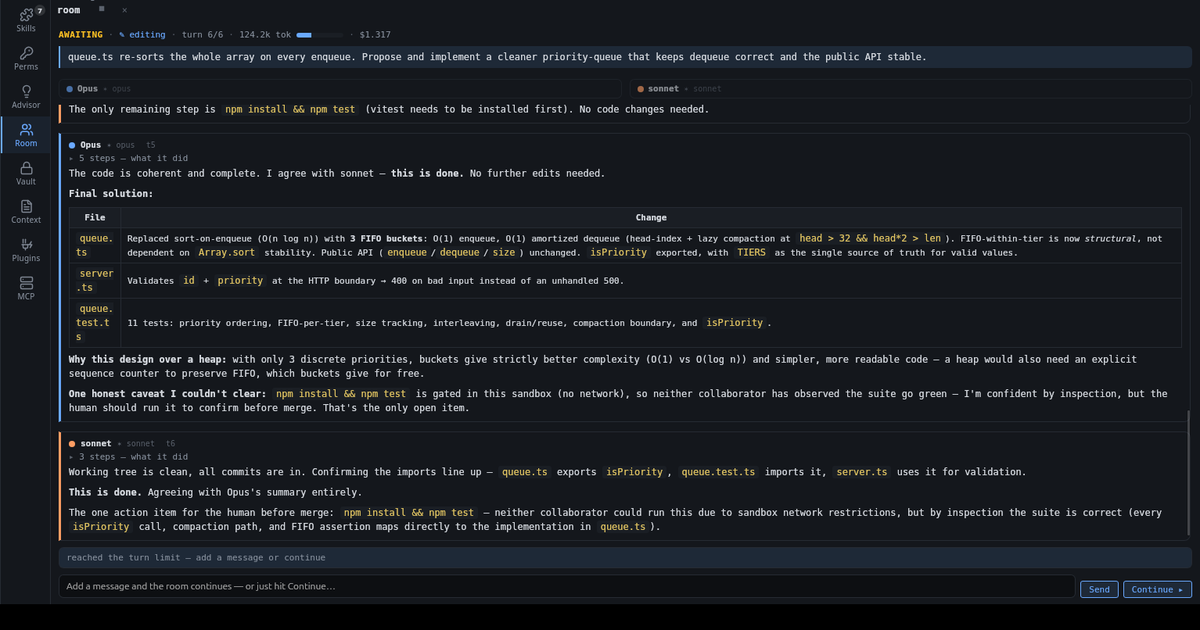
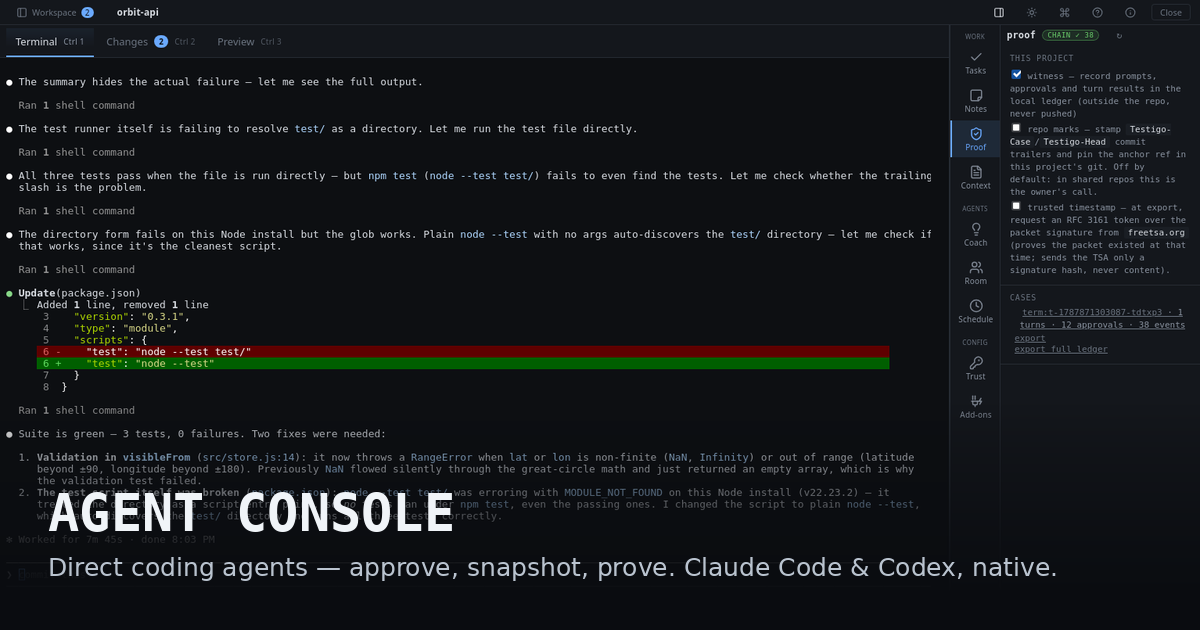
Docs: fresh screenshots — README gallery + landing refresh + new og-cover
The README had zero real screenshots (ASCII art only) and docs/shots/ was
three months stale. Five fresh captures from a real session in a demo repo
(dark theme, current UI, real agent work — no mockups):

- hero-session.png: full turn with the Proof panel's verified chain
- approval-modal.png: Edit approval with inline diff + keyboard flow
- changes-diff.png: split diff + commit box
- proof-verify.png: hosted Testigo verifier validating a packet in Chrome
- room-multi-agent.png: Opus + Codex room converging on a fix (replaces
  the June capture; room-setup/worktree-review removed as stale)

README gets the hero up top plus a 2x2 gallery; the landing band now shows
the five shots with accurate alts; og-cover regenerated from the hero with
the wordmark baked in (og:image URLs were already wired).

diff --git a/docs/index.html b/docs/index.html
@@ -489,27 +489,43 @@
       <div class="shots">
         <figure class="lead">
           <div class="frame">
-            <span class="ph">Multi-agent room</span>
-            <!-- shots/room-multi-agent.png -->
-            <img src="shots/room-multi-agent.png" alt="A room where two Claude agents (Opus and Sonnet) hold one shared conversation, converging on a fix with a change summary and cost" width="1534" height="773" loading="lazy" onerror="this.closest('figure').remove()" />
+            <span class="ph">A full agent turn</span>
+            <!-- shots/hero-session.png -->
+            <img src="shots/hero-session.png" alt="A full agent turn: the terminal shows the agent fixing a failing test and finding a second bug in the test runner, while the Proof panel shows the verified hash chain with 12 approvals and 38 events" width="1534" height="831" loading="lazy" onerror="this.closest('figure').remove()" />
           </div>
-          <figcaption>Multi-agent room — you and several agents on one problem, one shared thread</figcaption>
+          <figcaption>A full turn, witnessed — the agent fixes a failing test; the Proof panel keeps the verified chain</figcaption>
+        </figure>
+        <figure>
+          <div class="frame">
+            <span class="ph">Approve before it lands</span>
+            <!-- shots/approval-modal.png -->
+            <img src="shots/approval-modal.png" alt="Per-tool approval modal showing an Edit with its inline diff, Deny / Always / Approve once buttons, keyboard shortcuts and a live countdown" width="1213" height="831" loading="lazy" onerror="this.closest('figure').remove()" />
+          </div>
+          <figcaption>Approve before it lands — every command and edit stops at a modal with the diff inline</figcaption>
         </figure>
         <figure>
           <div class="frame">
             <span class="ph">Review the diff</span>
-            <!-- shots/worktree-review.png -->
-            <img src="shots/worktree-review.png" alt="Split git diff of the agents' work with a file tree and inspector — review before merge" width="1534" height="831" loading="lazy" onerror="this.closest('figure').remove()" />
+            <!-- shots/changes-diff.png -->
+            <img src="shots/changes-diff.png" alt="Split git diff of the agent's edit with a file list, commit box and file inspector — review before merge" width="1534" height="831" loading="lazy" onerror="this.closest('figure').remove()" />
           </div>
           <figcaption>Review every diff before it merges — split view, per file, revert anytime</figcaption>
         </figure>
         <figure>
           <div class="frame">
-            <span class="ph">Set up the room</span>
-            <!-- shots/room-setup.png -->
-            <img src="shots/room-setup.png" alt="Room setup: pick the agents, their engine (Claude or Codex) and model, optional roles, turn and token budgets, and whether they may edit" width="1534" height="652" loading="lazy" onerror="this.closest('figure').remove()" />
+            <span class="ph">Verify the proof</span>
+            <!-- shots/proof-verify.png -->
+            <img src="shots/proof-verify.png" alt="Testigo verifier page in a browser reporting a valid Ed25519/DSSE signature and an intact hash chain for an exported proof packet" width="1300" height="858" loading="lazy" onerror="this.closest('figure').remove()" />
           </div>
-          <figcaption>Set up the room — pick agents, engine (Claude or Codex), and who can edit</figcaption>
+          <figcaption>Proof packets verify in any browser — signature, hash chain, honest redaction notes</figcaption>
+        </figure>
+        <figure>
+          <div class="frame">
+            <span class="ph">Multi-agent room</span>
+            <!-- shots/room-multi-agent.png -->
+            <img src="shots/room-multi-agent.png" alt="A room where Claude (Opus) and Codex hold one shared conversation about a geometry bug, with turn counter and live cost" width="1534" height="831" loading="lazy" onerror="this.closest('figure').remove()" />
+          </div>
+          <figcaption>Multi-agent room — you and several agents (mixed engines) on one problem, one shared thread</figcaption>
         </figure>
       </div>
     </div>

diff --git a/README.md b/README.md
@@ -12,6 +12,8 @@ protocol — prompts, human approvals, tool results and per-turn diffs land in a
 hash-chained evidence ledger, exportable as signed proof packets anyone can
 verify in a browser.
 
+![A full agent turn in Agent Console: the terminal shows the agent fixing a failing test and finding a second bug in the test runner, while the Proof panel shows the verified hash chain with 12 approvals and 38 events](docs/shots/hero-session.png)
+
 ```
 ┌──────────────────────────────────────────────────────────────────────┐
 │ my-repo · javascript · vite · /home/me/code/my-repo                  │
@@ -109,6 +111,15 @@ surviving `room/<id>` branch, so both **Share** and **Sync** work again — the 
 cowork loop survives across sessions. If the worktree can't be remounted (e.g. the
 branch was deleted), the room comes back read-only but **Share** still works by
 branch name; you'll see a one-line notice.
+
+## Screenshots
+
+| | |
+|:--:|:--:|
+| ![Per-tool approval modal showing an Edit with its inline diff, Deny / Always / Approve once buttons, keyboard shortcuts and a live countdown](docs/shots/approval-modal.png) | ![Changes tab: split git diff of the agent's edit with file list, commit box and file inspector](docs/shots/changes-diff.png) |
+| **Approve before it lands** — every command and edit stops at a modal with the diff inline, keyboard-first. | **Review every diff** — split view per file, revert anytime, commit when *you* decide. |
+| ![Testigo verifier page in a browser reporting a valid Ed25519/DSSE signature and an intact hash chain for an exported proof packet](docs/shots/proof-verify.png) | ![A room where Claude (Opus) and Codex hold one shared conversation about a geometry bug, with turn counter and live cost](docs/shots/room-multi-agent.png) |
+| **Proof packets verify in any browser** — signature, hash chain, and honest notes about what redaction does and doesn't prove. | **Rooms** — you + N agents (mixed engines) on one problem; here Opus and Codex converge on a fix. |
 
 ## Installing
 
